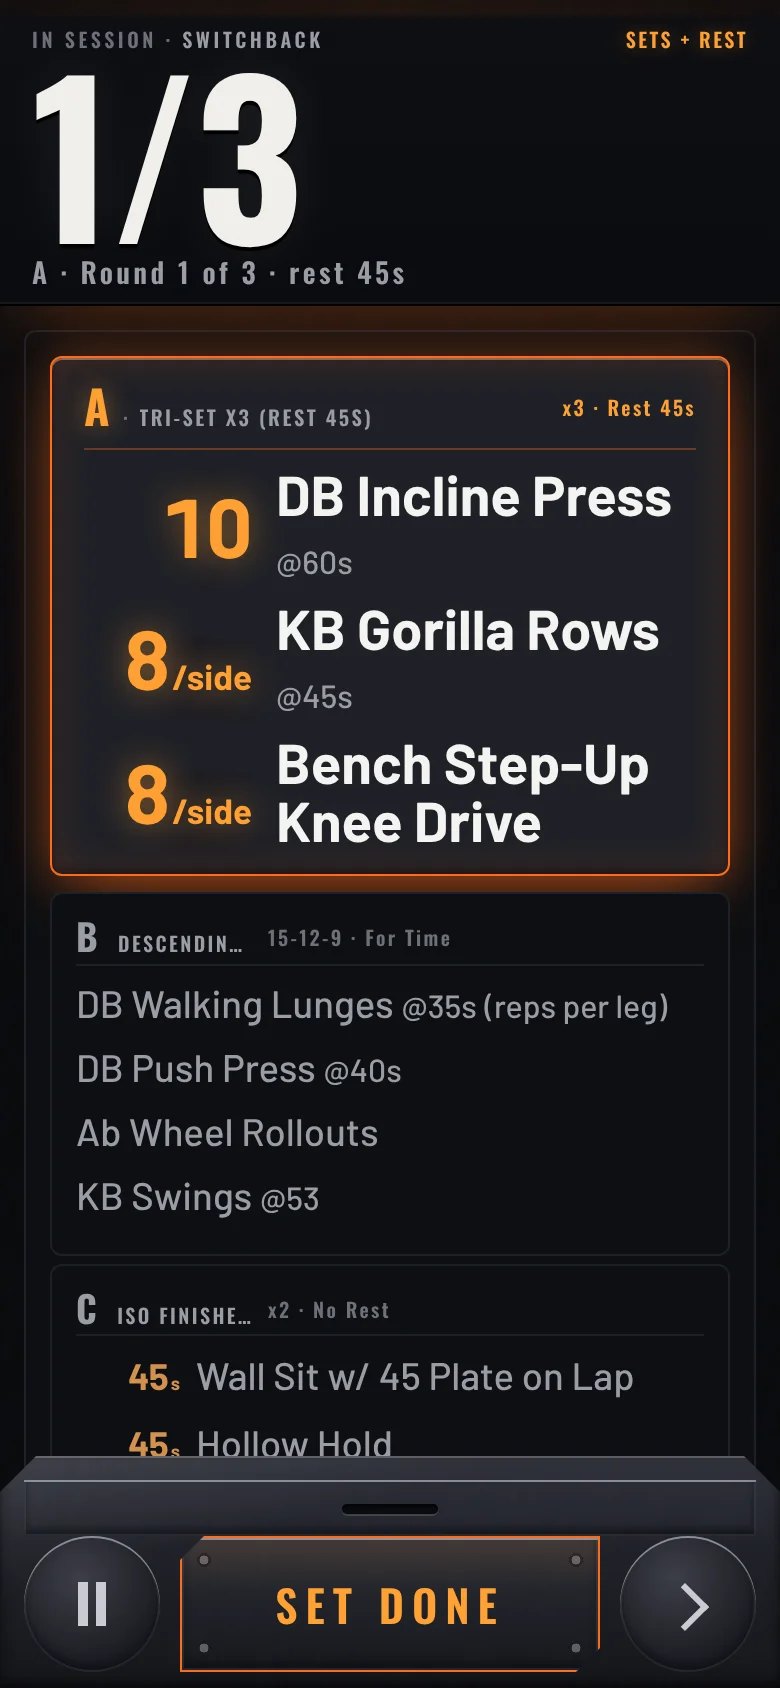
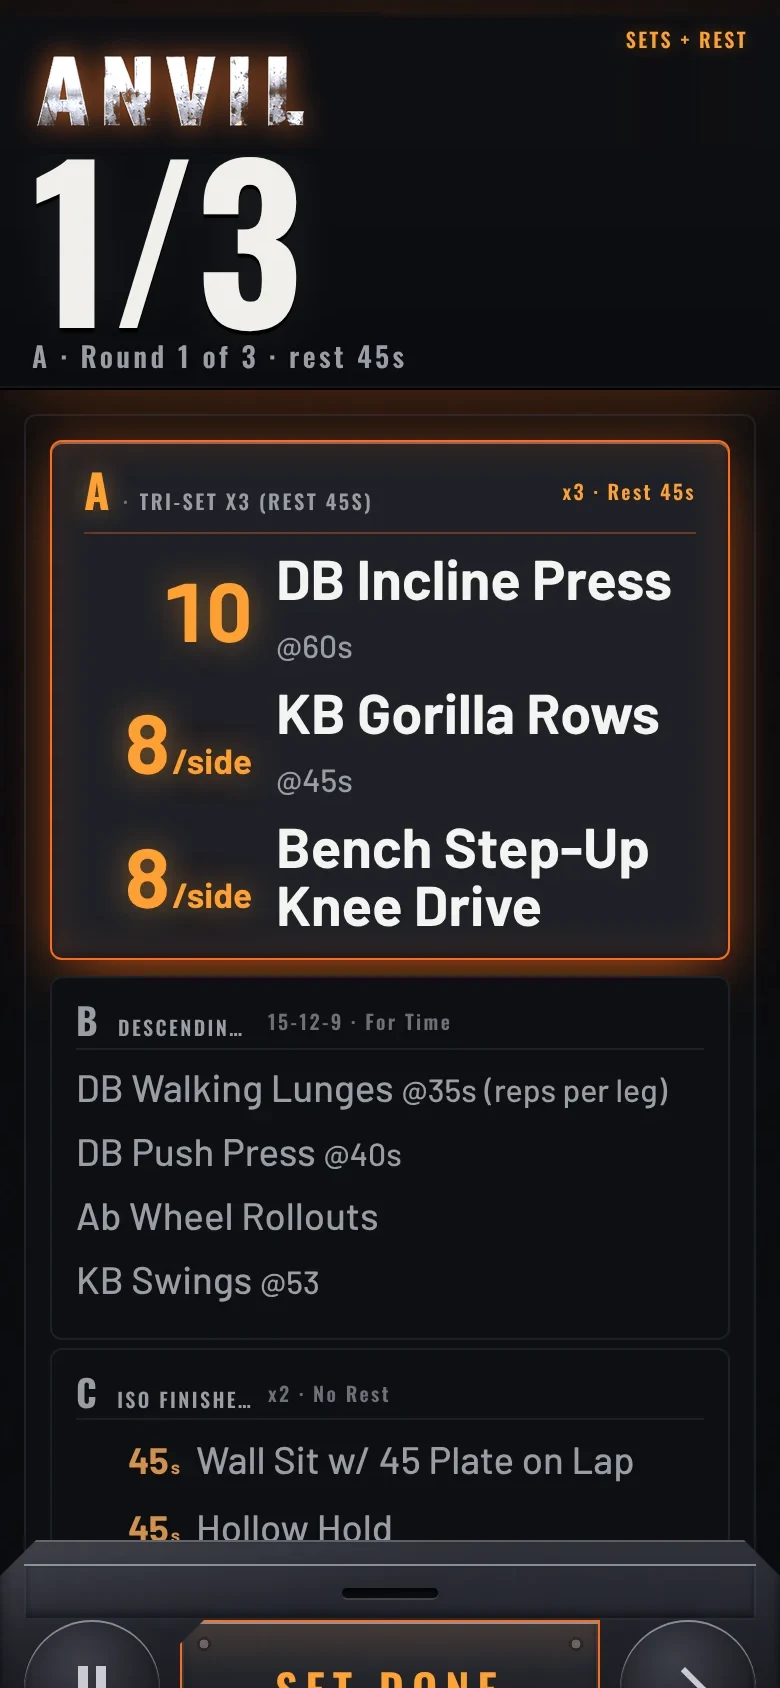
Hero: bigger ANVIL and Bird Dog phones; ANVIL screen carries its bright wordmark
Kyle wanted the two side phones emphasized and the ANVIL logo bright in the top left. The
phones now render ~35% larger and sit above the centerpiece layer. The ANVIL screenshot's
'IN SESSION' label is replaced by the app's own steel wordmark (docs/art/wordmark.jpg),
brightened with an ember glow, with the session content shifted down to make room.

Claude-Session: https://claude.ai/code/session_01QCMwEcpnTw5m2ds6vqjAGR

diff --git a/src/app/page.tsx b/src/app/page.tsx
@@ -113,9 +113,11 @@ export default function Home() {
             hidden, so the bank was just an empty white band under the spark line. */}
         <div aria-hidden="true" className="relative -mt-[clamp(40px,6vw,90px)] hidden md:block">
           <Clouds />
-          <div className="relative mx-auto flex max-w-[1100px] items-start justify-center gap-6 px-6 pb-6 pt-6 md:pb-16">
-            <div className="hidden h-[480px] w-[210px] shrink-0 -rotate-[4deg] pt-16 md:block">
-              <div className="w-[300px] origin-top-left scale-[0.7]">
+          <div className="relative mx-auto flex max-w-[1240px] items-start justify-center gap-4 px-6 pb-6 pt-6 md:pb-16 lg:gap-8">
+            {/* ANVIL and Bird Dog are emphasized (Kyle, 2026-10-17): bigger than the centerpiece's
+                scale, rising higher out of the clouds. */}
+            <div className="relative z-20 hidden h-[560px] w-[230px] shrink-0 -rotate-[5deg] pt-6 md:block lg:h-[680px] lg:w-[285px]">
+              <div className="w-[300px] origin-top-left scale-[0.77] lg:scale-[0.95]">
                 <AnvilScreen />
               </div>
             </div>
@@ -124,8 +126,8 @@ export default function Home() {
             <div className="relative z-10 hidden min-w-0 max-w-[620px] flex-1 justify-center md:flex">
               <DioiHeroScreen />
             </div>
-            <div className="hidden h-[480px] w-[210px] shrink-0 rotate-[4deg] pt-8 md:block">
-              <div className="w-[300px] origin-top-left scale-[0.7]">
+            <div className="relative z-20 hidden h-[560px] w-[230px] shrink-0 rotate-[5deg] md:block lg:h-[680px] lg:w-[285px]">
+              <div className="w-[300px] origin-top-left scale-[0.77] lg:scale-[0.95]">
                 <BirdDogScreen />
               </div>
             </div>
